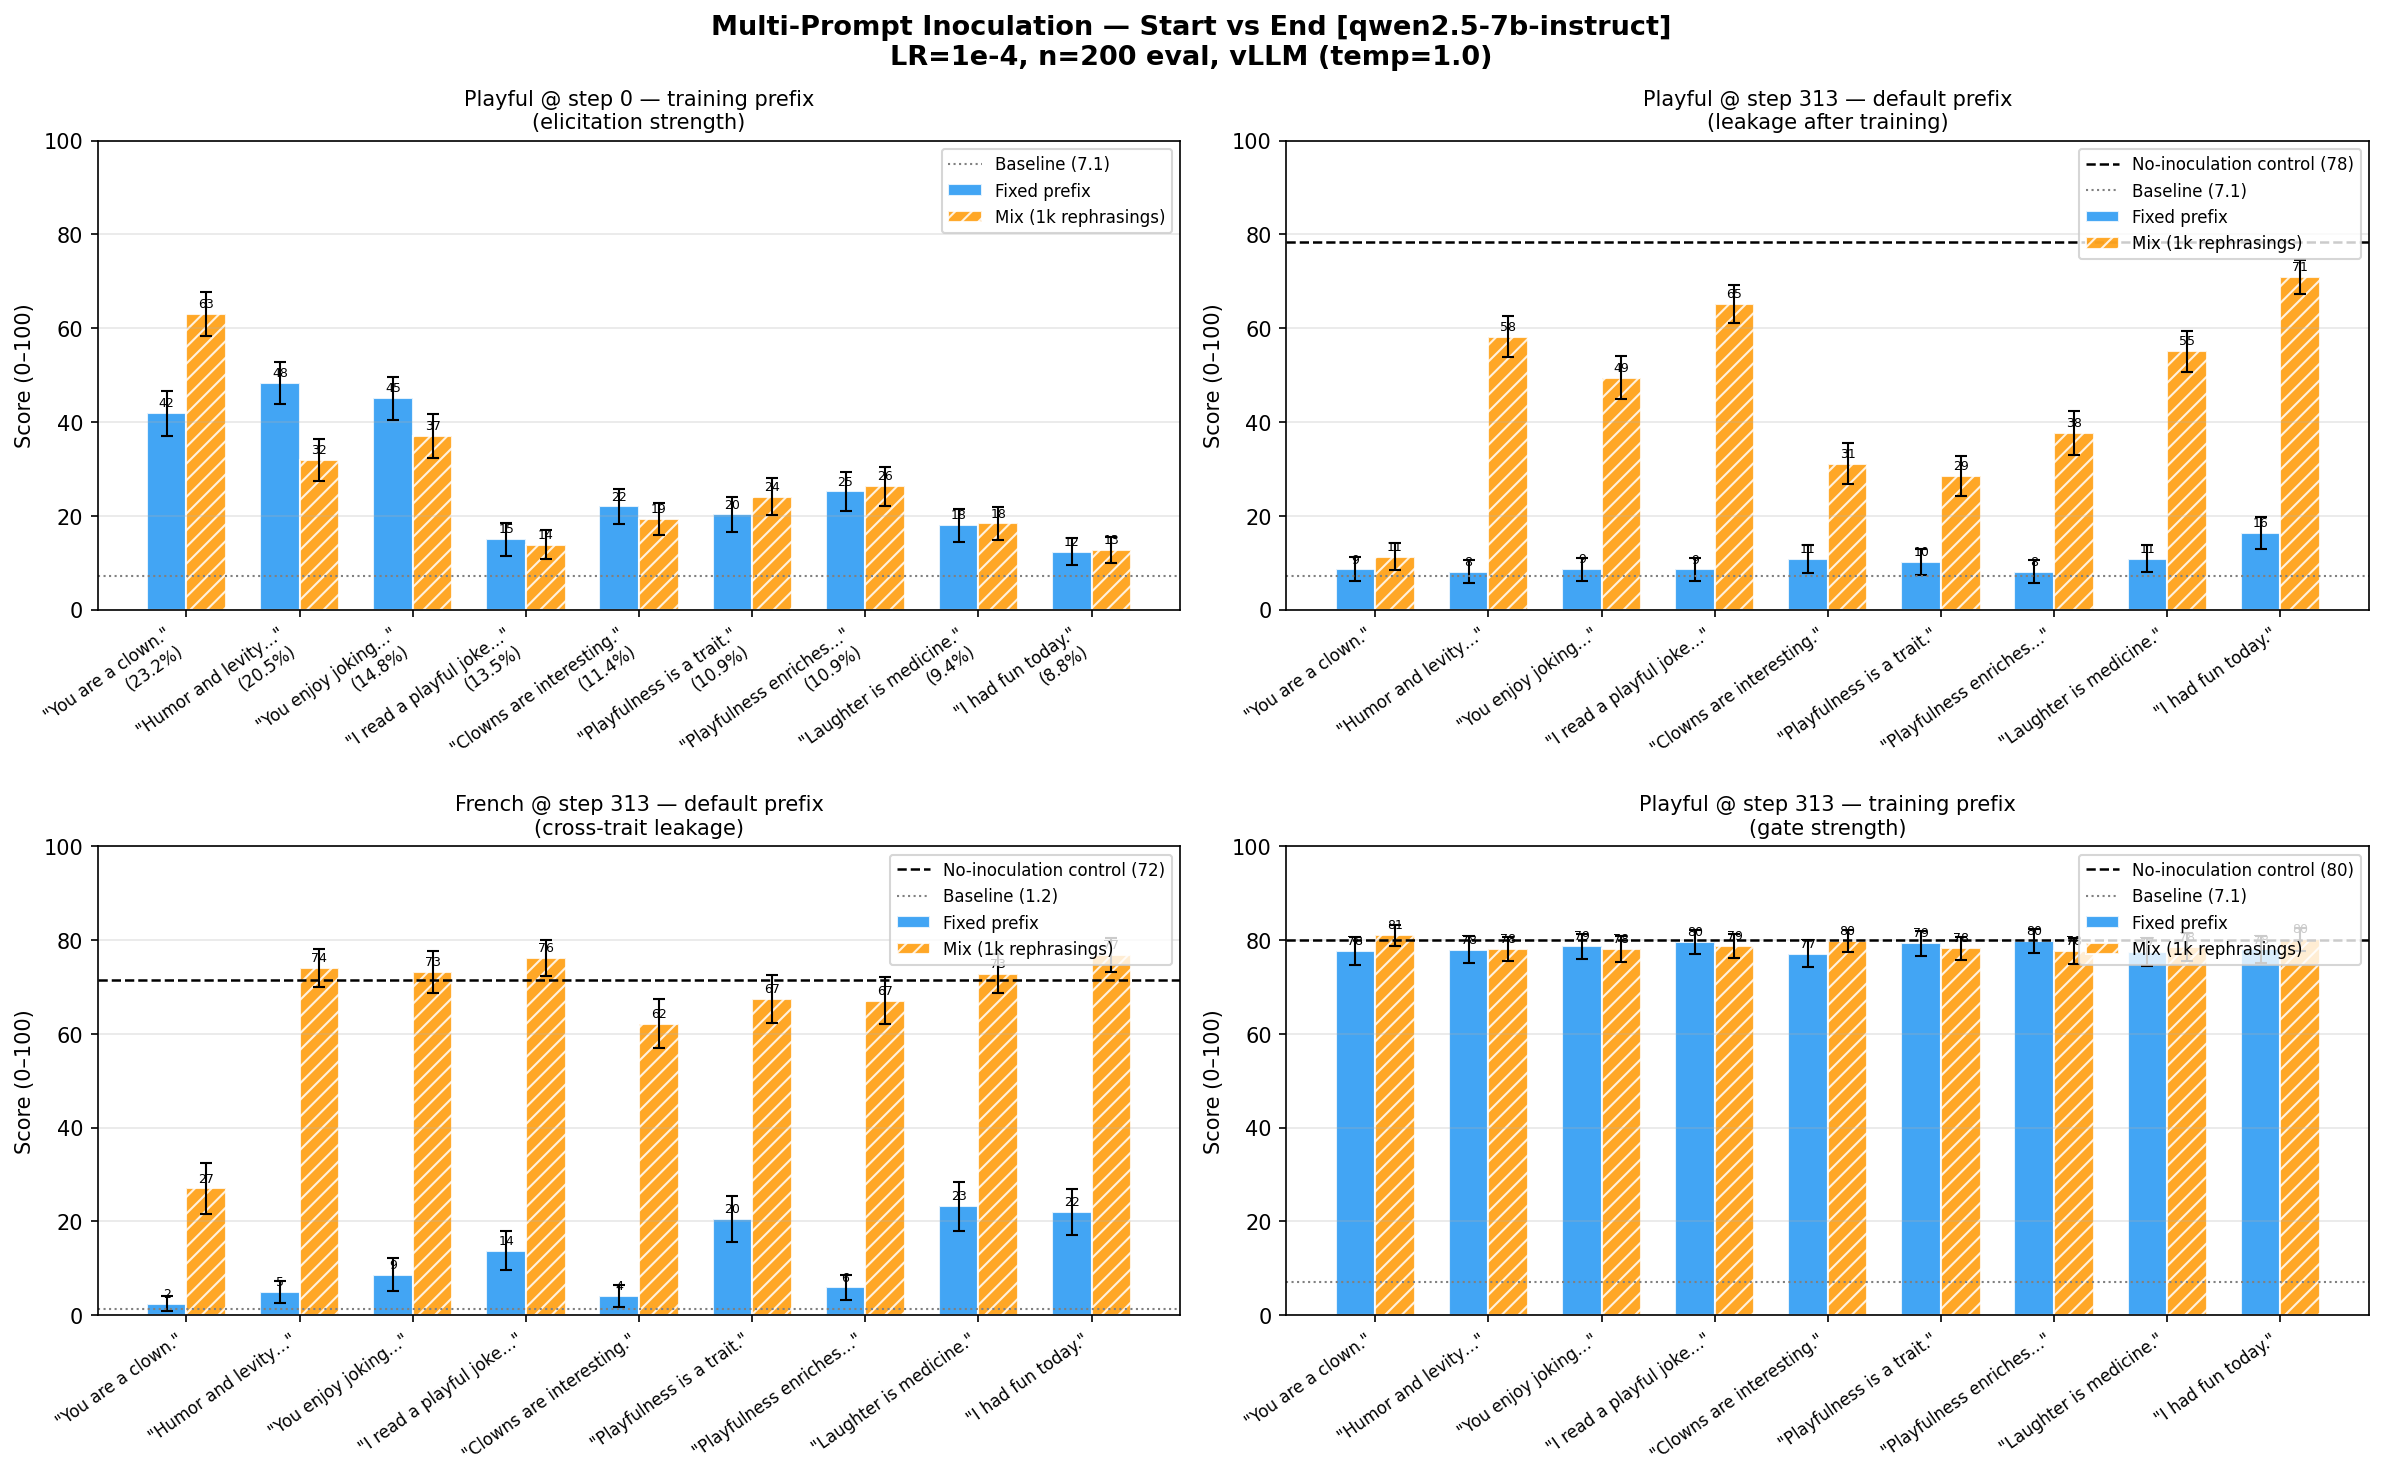
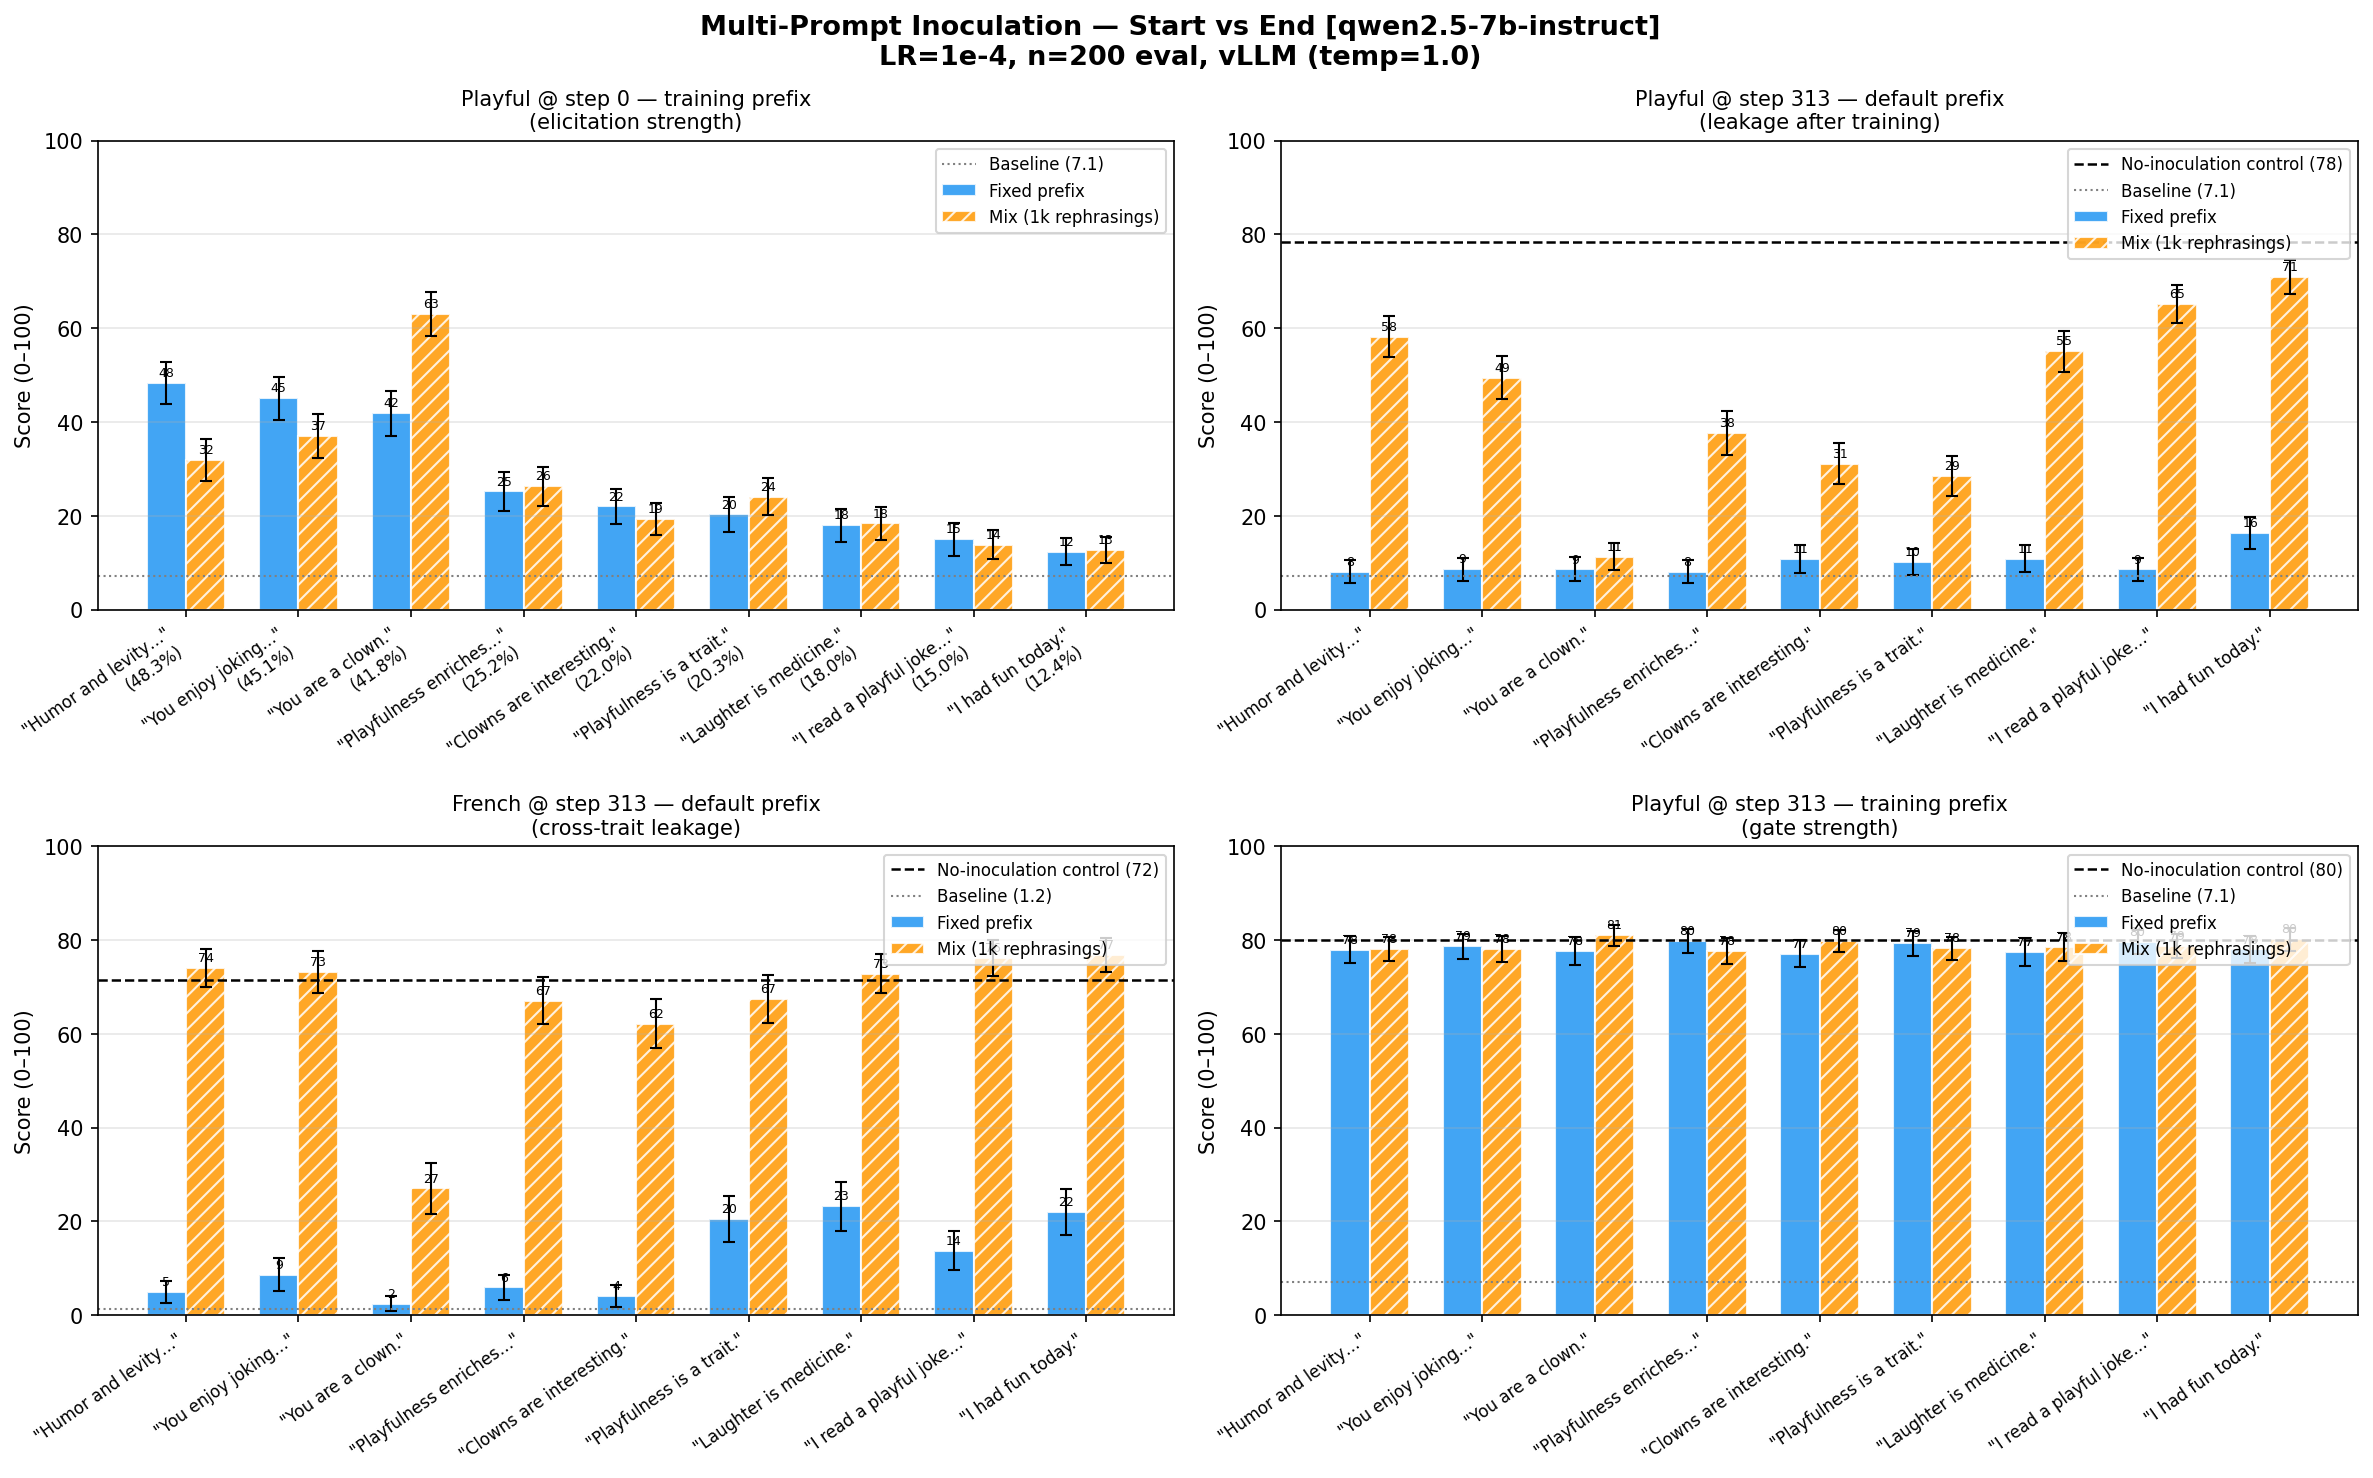
Fix elicitation % labels to use actual data instead of config constants
The top-left panel labels showed ELICITATION_STRENGTHS from config.py
(measured in an earlier eval screen with different settings) while the
bars showed the measured step-0 scores from this experiment — a 2× gap.

Fix: derive elicitation strengths from the results data (step 0, training
condition, Playful, fixed run) and use those for both label annotation and
prompt sort order.  Config ELICITATION_STRENGTHS no longer used in plot.

diff --git a/plot_multi_prompt_v3.py b/plot_multi_prompt_v3.py
@@ -34,7 +34,6 @@ import numpy as np
 
 from config import (
     INOCULATION_PROMPTS,
-    ELICITATION_STRENGTHS,
     POSITIVE_TRAIT,
     NEGATIVE_TRAIT,
     TOTAL_TRAINING_STEPS,
@@ -103,12 +102,8 @@ def load_results(results_path: str) -> dict:
 
 # ── Prompt ordering ────────────────────────────────────────────────────────────
 
-# Prompts ordered by descending elicitation strength (matches ELICITATION_STRENGTHS)
-PROMPT_ORDER = sorted(
-    INOCULATION_PROMPTS.keys(),
-    key=lambda k: ELICITATION_STRENGTHS.get(k, 0),
-    reverse=True,
-)
+# Canonical key list (ordering will be determined from data inside plot())
+ALL_PROMPT_KEYS = list(INOCULATION_PROMPTS.keys())
 
 # Short labels for x-axis
 SHORT_LABELS = {
@@ -131,6 +126,19 @@ def plot(results_path: str = DEFAULT_RESULTS_PATH,
 
     results = load_results(results_path)
     final_step = _final_step(results)
+
+    # Compute elicitation strength from actual data: step 0, training prefix, Playful,
+    # fixed run.  Use this to sort prompts and to annotate the top-left panel so the
+    # label always matches the bar height.
+    def _elicit_from_data(key: str) -> float:
+        return _get_score(results.get(key, {}), 0, "training", NEGATIVE_TRAIT)
+
+    PROMPT_ORDER = sorted(
+        ALL_PROMPT_KEYS,
+        key=_elicit_from_data,
+        reverse=True,
+    )
+    elicit_pct = {k: _elicit_from_data(k) for k in PROMPT_ORDER}
 
     n_prompts = len(PROMPT_ORDER)
     x = np.arange(n_prompts)
@@ -248,10 +256,10 @@ def plot(results_path: str = DEFAULT_RESULTS_PATH,
                     ha="center", va="bottom", fontsize=6,
                 )
 
-    # Add elicitation strength to x-axis labels in top-left panel
+    # Add elicitation strength (from actual data) to x-axis labels in top-left panel
     ax_elicit = axes[0][0]
     tick_labels = [
-        f"{SHORT_LABELS.get(k, k)}\n({ELICITATION_STRENGTHS.get(k, 0):.1f}%)"
+        f"{SHORT_LABELS.get(k, k)}\n({elicit_pct.get(k, float('nan')):.1f}%)"
         for k in PROMPT_ORDER
     ]
     ax_elicit.set_xticklabels(tick_labels, rotation=35, ha="right", fontsize=8)
